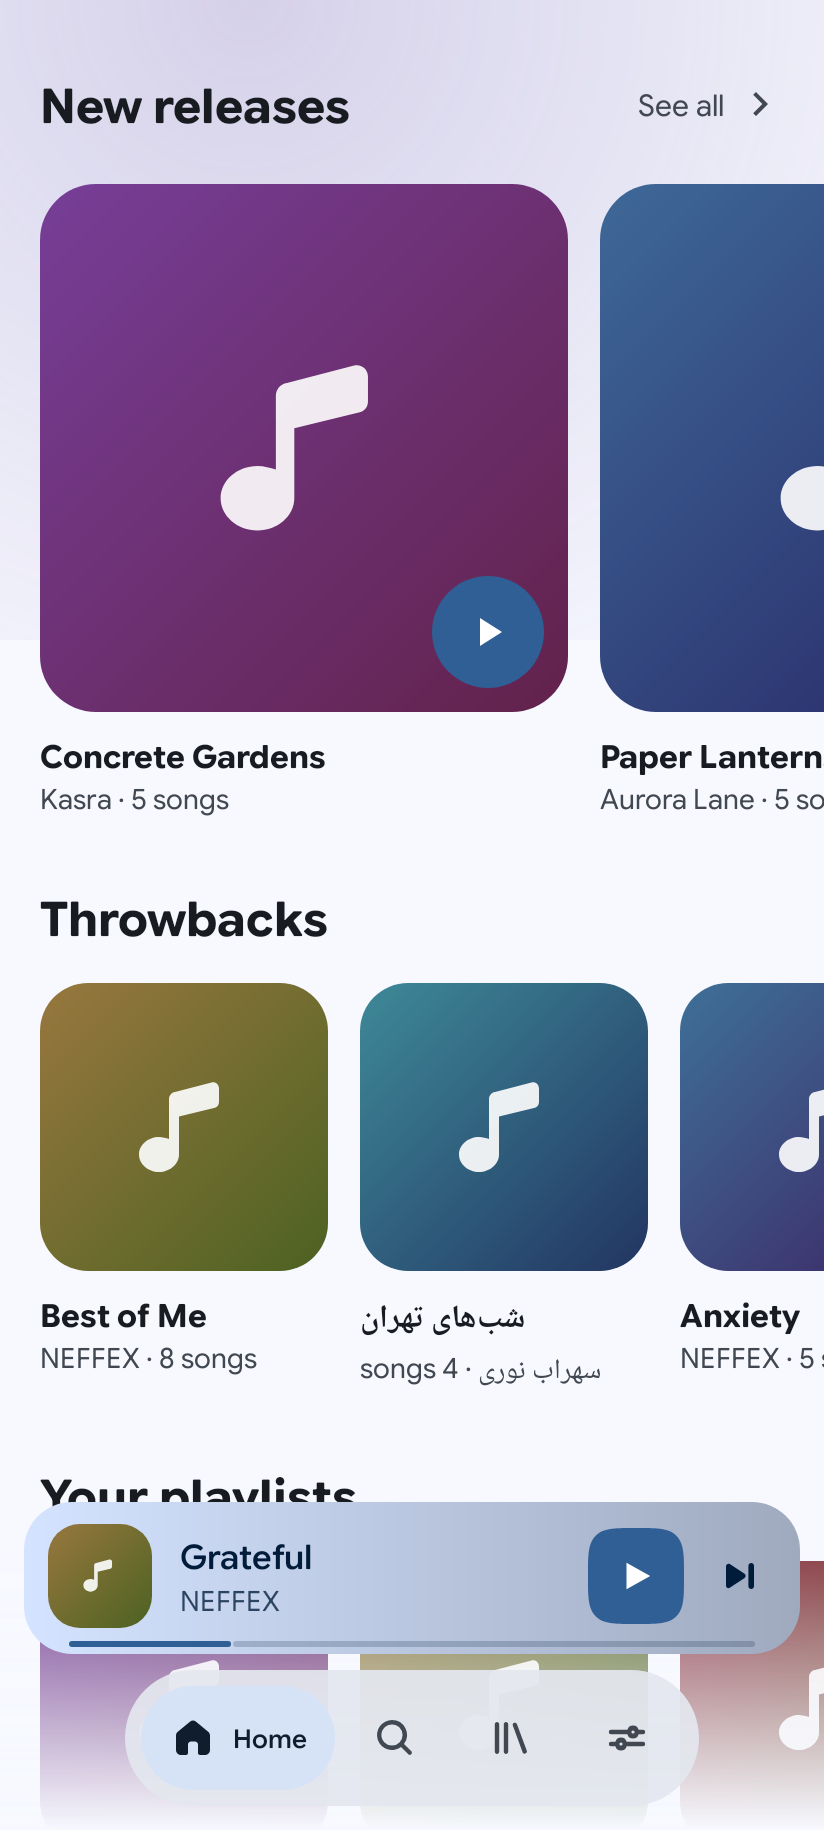
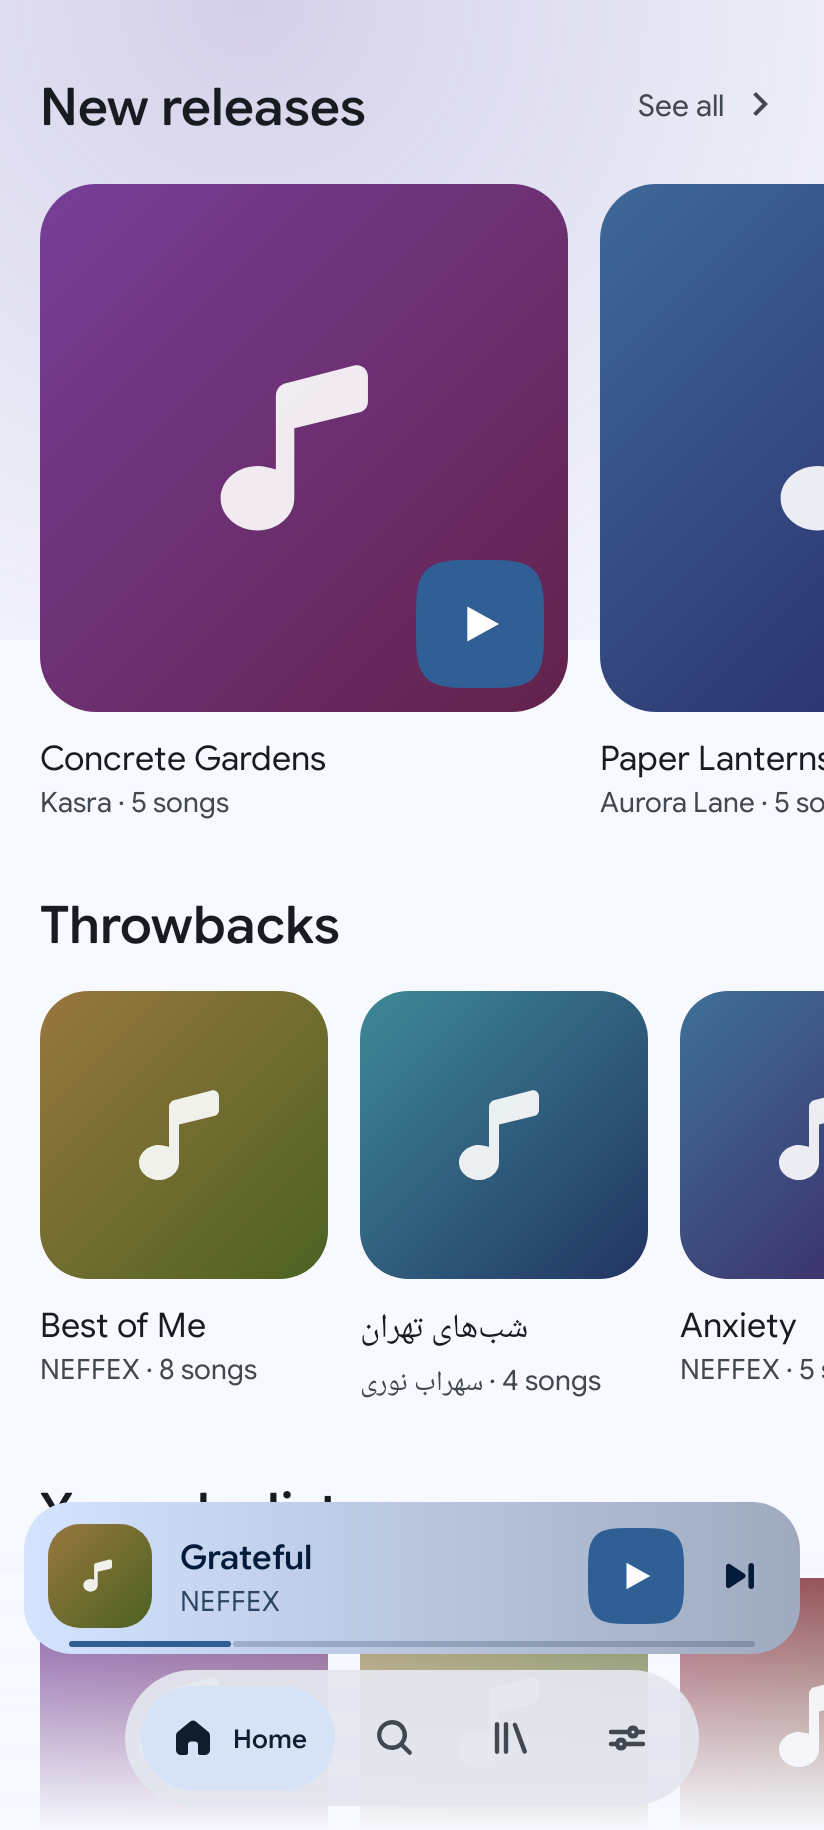
P1: cookie MorphPlayPause on hero + liked card, v1 headline weights, bidi-isolated mixed-script subtitles, screen renders on fakes
Claude-Session: https://claude.ai/code/session_01Vs9o5GYUVh6nkyc9RDeAP9

diff --git a/app/src/main/java/com/mhrsdev/musicplayer/ui/home/HomeCardAdapter.java b/app/src/main/java/com/mhrsdev/musicplayer/ui/home/HomeCardAdapter.java
@@ -69,7 +69,7 @@ final class HomeCardAdapter extends ListAdapter<HomeItem, HomeCardAdapter.Holder
             }
             case ALBUM -> {
                 title = item.album().title();
-                subtitle = item.album().artistName() + " · "
+                subtitle = android.text.BidiFormatter.getInstance().unicodeWrap(item.album().artistName()) + " · "
                         + r.getQuantityString(R.plurals.library_songs, item.album().trackCount(), item.album().trackCount());
                 seed = item.album().placeholderSeed();
                 art = item.album().artworkUri();

diff --git a/app/src/testDebug/java/com/mhrsdev/musicplayer/FakeRenderApp.java b/app/src/testDebug/java/com/mhrsdev/musicplayer/FakeRenderApp.java
@@ -1,0 +1,13 @@
+package com.mhrsdev.musicplayer;
+
+import com.mhrsdev.musicplayer.di.AppContainer;
+
+/** Robolectric application for {@link ScreenRenderTest}: the shell runs on the in-memory fakes (sample library). */
+public class FakeRenderApp extends MusicPlayerApp {
+    private AppContainer fakes;
+
+    @Override public AppContainer getContainer() {
+        if (fakes == null) fakes = new AppContainer(this, true);
+        return fakes;
+    }
+}

diff --git a/app/src/testDebug/java/com/mhrsdev/musicplayer/ScreenRenderTest.java b/app/src/testDebug/java/com/mhrsdev/musicplayer/ScreenRenderTest.java
@@ -30,6 +30,7 @@ import java.io.FileOutputStream;
 @RunWith(RobolectricTestRunner.class)
 @GraphicsMode(GraphicsMode.Mode.NATIVE)
 @LooperMode(LooperMode.Mode.PAUSED)
+@Config(application = FakeRenderApp.class)
 public class ScreenRenderTest {
 
     private static final String DARK = "w412dp-h915dp-night-xhdpi";
